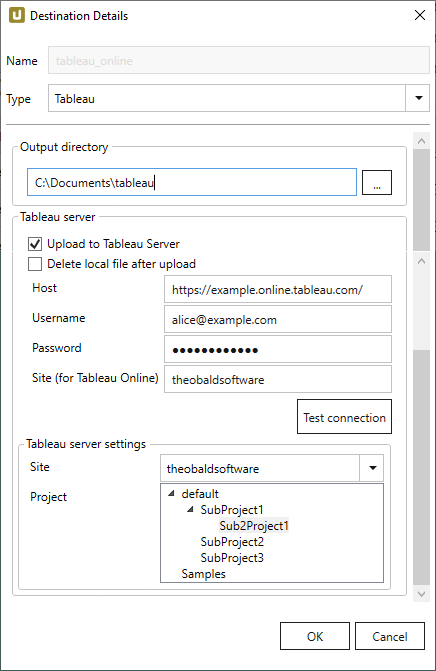
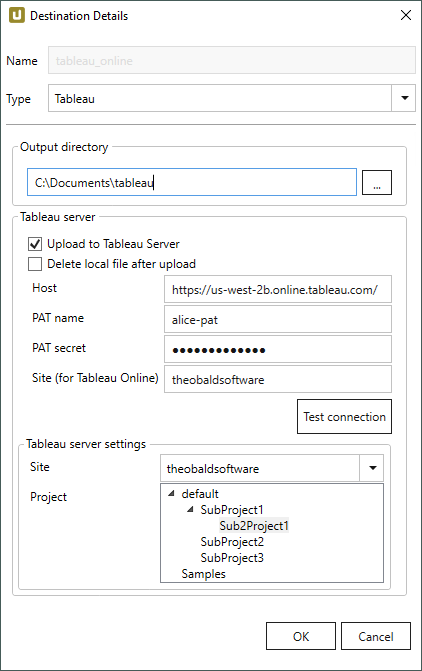
XU: Tableau PTA

diff --git a/content/_de/xtract-universal/destinationen/tableau.md b/content/_de/xtract-universal/destinationen/tableau.md
@@ -50,12 +50,12 @@ Option zum Entfernen der lokalen Datei nach einem erfolgreichen Upload.
 **Host** <br>
 Die IP-Adresse oder der Domainname des Servers, beginnend mit `http://` oder `https://`.
 
-**Username** <br>
-Ihr Benutzername für Tableau Server/Cloud eingeben.<br>
-Für die Extraktion von Daten nach Tableau Server ist die Benutzerrolle "Server Administrator" als "Site Role" erforderlich.<br>
+**PAT name**<br>
+Geben Sie den Namen Ihres [Individuellen Zugangstokens (PAT)](https://help.tableau.com/current/api/rest_api/en-us/REST/rest_api_concepts_auth.htm#make-a-sign-in-request-with-a-personal-access-token) an.<br>
+Um Daten nach Tableau Server zu schreiben, ist die Benutzerrolle "Server Administrator" als "Site Role" erforderlich.<br>
 
-**Password** <br>
-Ihr Passwort für Tableau Server/Cloud eingeben.
+**PAT secret**<br>
+Geben Sie ein gültiges Token-Geheimnis für Ihren Token-Namen ein.
 
 **Site (for Tableau Cloud)** <br>
 Die ID der Website für die Veröffentlichung Ihrer Datenquelle eingeben. 

diff --git a/content/_en/xtract-universal/destinations/tableau.md b/content/_en/xtract-universal/destinations/tableau.md
@@ -51,12 +51,12 @@ Option to remove the local file after a successful upload.
 **Host**<br>
 Enter the IP address or domain name of the remote server, starting with `http://` or `https://`.
 
-**Username**<br>
-Enter your username for Tableau Server/Cloud.
-For the extraction of data to Tableau Server the role "Server Administrator" is required as "Site Role".<br>
+**PAT name**<br>
+Enter the name of your [Personal Access Token (PAT)](https://help.tableau.com/current/api/rest_api/en-us/REST/rest_api_concepts_auth.htm#make-a-sign-in-request-with-a-personal-access-token).<br>
+To extract data to Tableau Server the site role "Server Administrator" is required.<br>
 
-**Password**<br>
-Enter your password for Tableau Server/Cloud.
+**PAT secret**<br>
+Enter a valid token secret that corresponds to your token name.
 
 **Site (for Tableau Cloud)**<br>
 Enter the ID of the site for publishing your data source. 
